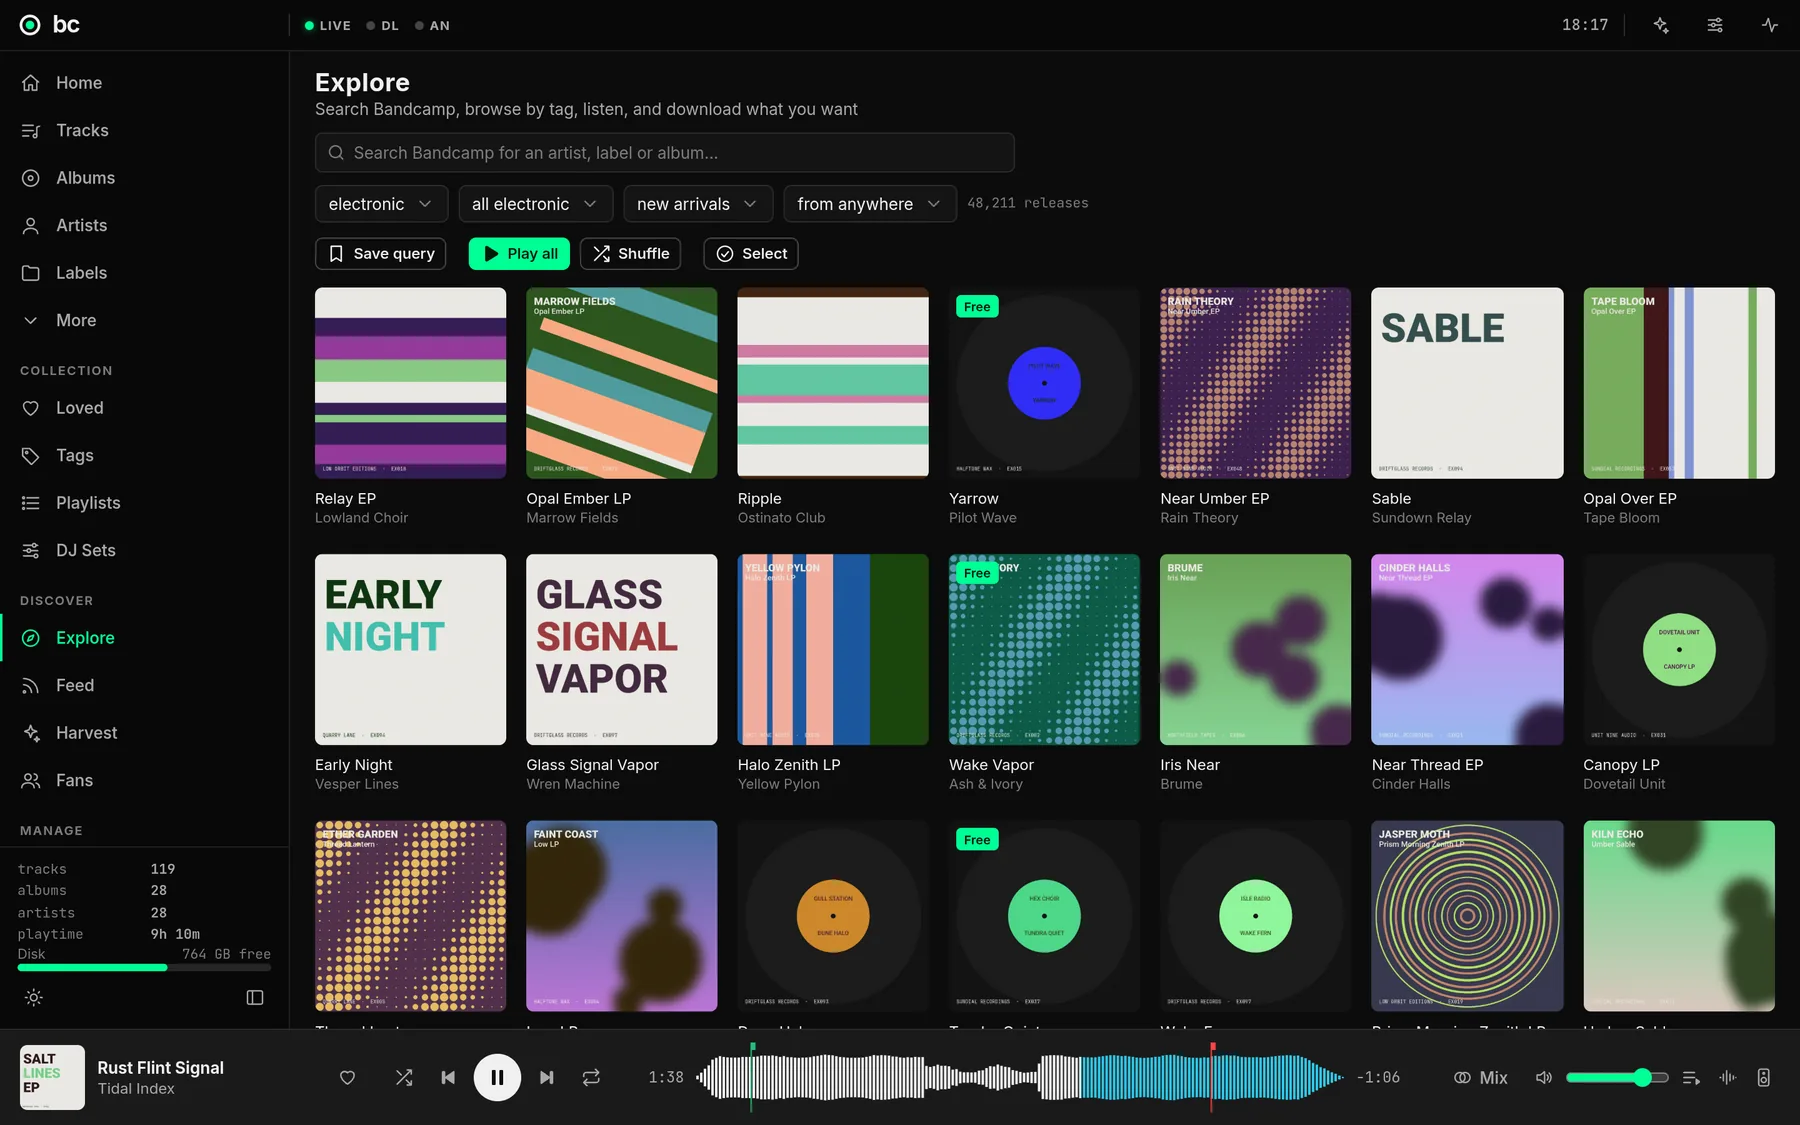
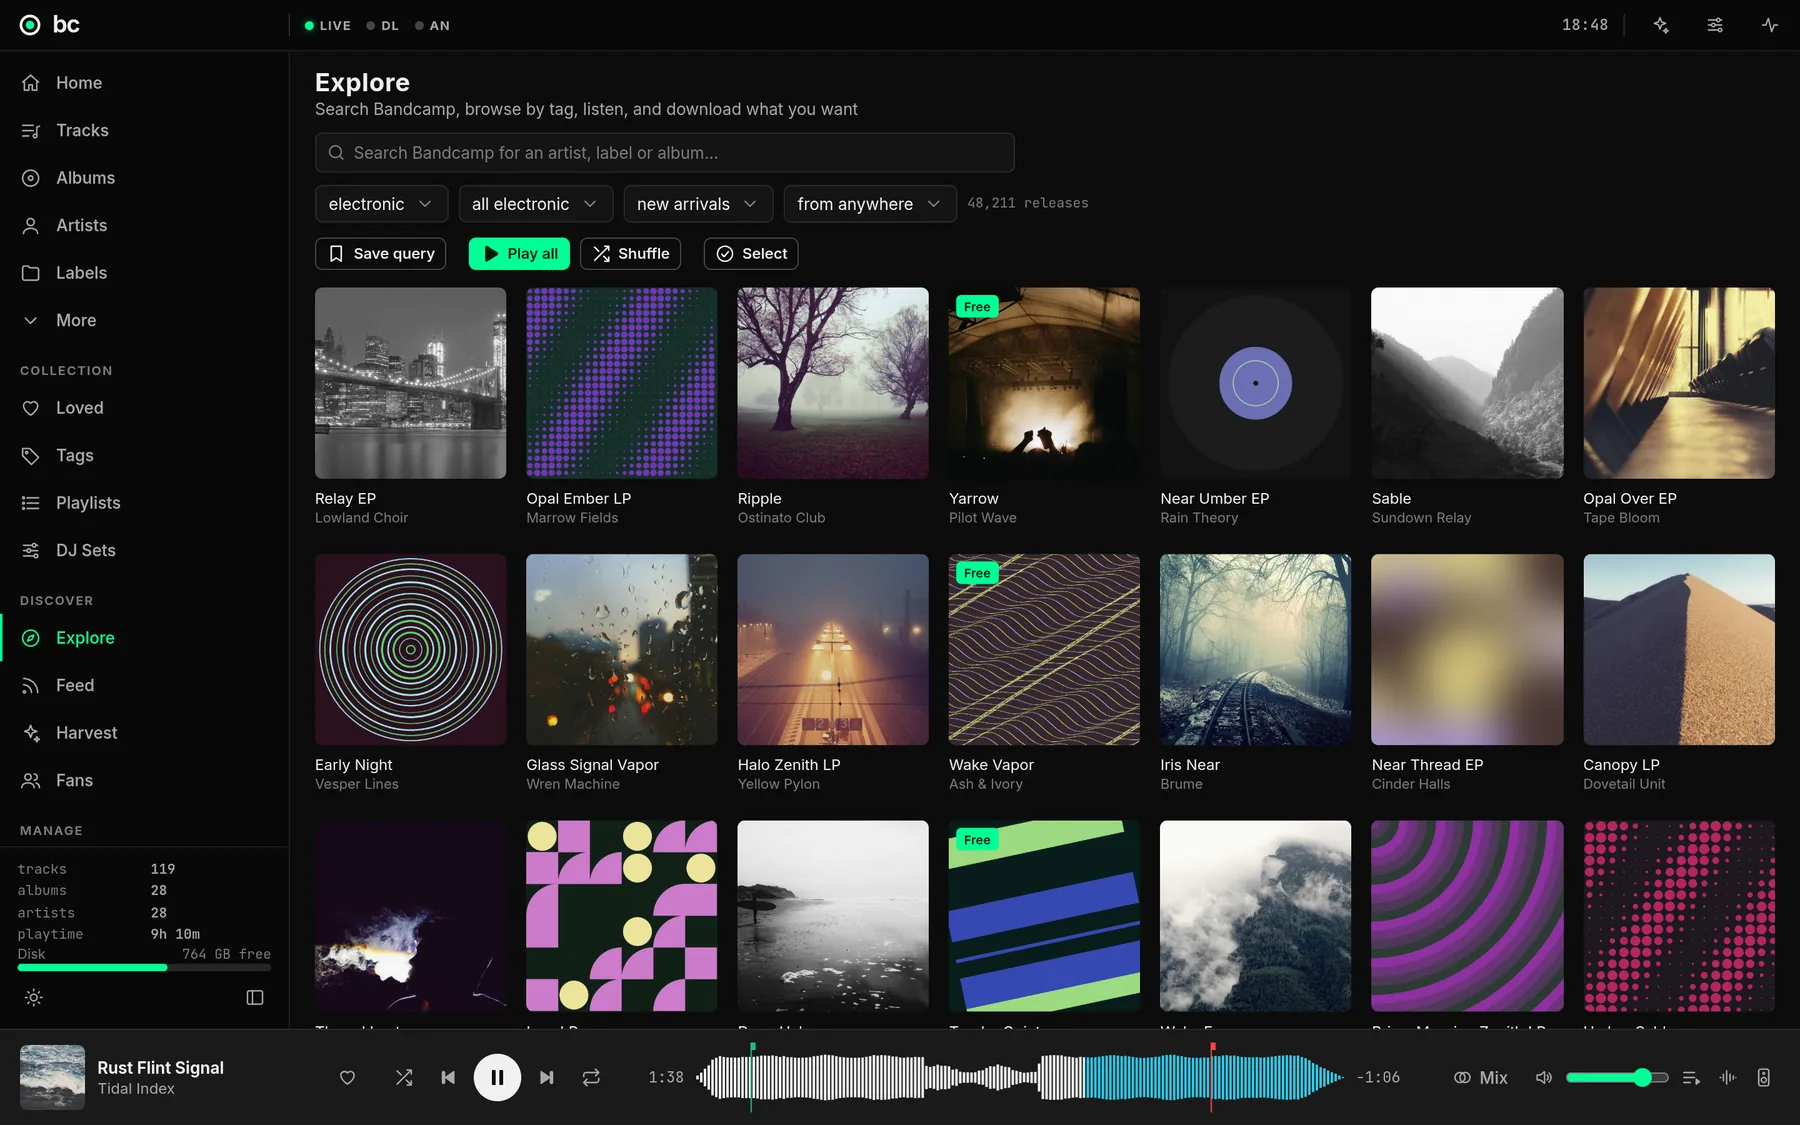
Text-free demo covers in the website screenshots
Covers are now Unsplash photos, one supplied image and generated abstracts,
none with printed text. Screenshot links carry ?v=2 so browsers holding the
day-long cached copies fetch the new files.

diff --git a/website/index.html b/website/index.html
@@ -63,8 +63,8 @@ try {
 
 <figure class="wrap shot shot-hero">
   <picture>
-    <source srcset="assets/img/bc-home.webp" type="image/webp">
-    <img src="assets/img/bc-home.png" width="1800" height="1125" alt="The bc home screen with a demo library: the newest release, latest additions, the all-time Top 10 and the player bar with a waveform.">
+    <source srcset="assets/img/bc-home.webp?v=2" type="image/webp">
+    <img src="assets/img/bc-home.png?v=2" width="1800" height="1125" alt="The bc home screen with a demo library: the newest release, latest additions, the all-time Top 10 and the player bar with a waveform.">
   </picture>
 </figure>
 
@@ -97,8 +97,8 @@ try {
   </div>
   <figure class="shot shot-detail">
     <picture>
-      <source srcset="assets/img/bc-tracks.webp" type="image/webp">
-      <img src="assets/img/bc-tracks.png" width="1800" height="1125" alt="The bc track list with a demo library: title, artist, album, BPM, key, time, date added, plays and a waveform per row, with tag filters in the sidebar." loading="lazy">
+      <source srcset="assets/img/bc-tracks.webp?v=2" type="image/webp">
+      <img src="assets/img/bc-tracks.png?v=2" width="1800" height="1125" alt="The bc track list with a demo library: title, artist, album, BPM, key, time, date added, plays and a waveform per row, with tag filters in the sidebar." loading="lazy">
     </picture>
   </figure>
 </section>
@@ -107,8 +107,8 @@ try {
   <div class="wrap section split split-reverse">
     <figure class="shot">
       <picture>
-        <source srcset="assets/img/bc-explore.webp" type="image/webp">
-        <img src="assets/img/bc-explore.png" width="1800" height="1125" alt="Explore in bc: new electronic arrivals as a grid of covers with filters for genre, sort and location (demo content)." loading="lazy">
+        <source srcset="assets/img/bc-explore.webp?v=2" type="image/webp">
+        <img src="assets/img/bc-explore.png?v=2" width="1800" height="1125" alt="Explore in bc: new electronic arrivals as a grid of covers with filters for genre, sort and location (demo content)." loading="lazy">
       </picture>
     </figure>
     <div class="copy">
@@ -130,8 +130,8 @@ try {
   </div>
   <figure class="shot shot-detail">
     <picture>
-      <source srcset="assets/img/bc-sets.webp" type="image/webp">
-      <img src="assets/img/bc-sets.png" width="1800" height="719" alt="The DJ Sets overview: four demo sets with cover mosaics, track counts, length and average BPM." loading="lazy">
+      <source srcset="assets/img/bc-sets.webp?v=2" type="image/webp">
+      <img src="assets/img/bc-sets.png?v=2" width="1800" height="719" alt="The DJ Sets overview: four demo sets with cover mosaics, track counts, length and average BPM." loading="lazy">
     </picture>
   </figure>
 </section>
